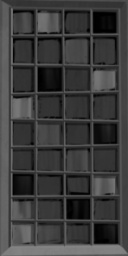
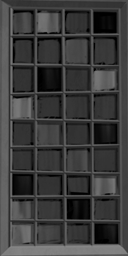
phase_9: Fix an issue with the Sellbot Factory windows
The windows in the Sellbot Factory Exterior have a busted up alpha channel that causes them to display as small bars....which doesn't look right, especially compared to the original FootFactory.bam model.

diff --git a/README.md b/README.md
@@ -41,6 +41,7 @@ The things changed are:
 * Corrected Clarabelle's glove color to be accurate to her appearance in Toontown Online
 * Fix a poor quality removal of a small light on the Donald's Dreamland skybox that caused a small seam in the texture
 * Remastered Bossbot HQ/Toon Hall portraits using color corrected and tweaked scans of the original Trading Cards
+* Fix to the Sellbot Factory windows having an incorrectly set alpha channel, causing them to display as small bars
 * Fixes to a large variety of RGB issues caused by faulty TIF files in the original model repository, such as Estates and Catching Game
 
 It's also possible that I made a mistake. In which case, please open an issue/pull request if possible!
